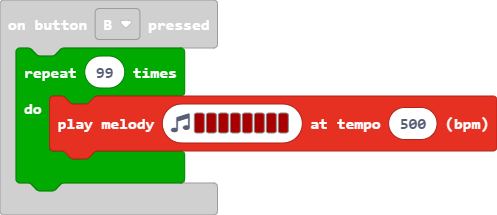
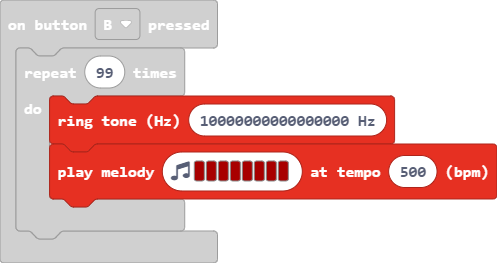
Update main.blocks, main.ts

diff --git a/main.ts b/main.ts
@@ -3,6 +3,7 @@ input.onButtonPressed(Button.A, function () {
 })
 input.onButtonPressed(Button.B, function () {
     for (let index = 0; index < 99; index++) {
+        music.ringTone(10000000000000000)
         music.playMelody("C5 C5 C5 C5 C5 C5 C5 C5 ", 500)
     }
 })
